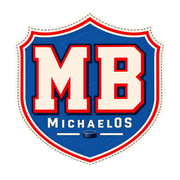
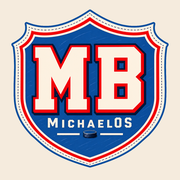
Apply blue-trim ivory shield to all launcher branding

diff --git a/index.html b/index.html
@@ -10,9 +10,9 @@
   <meta name="mobile-web-app-capable" content="yes">
   <meta name="format-detection" content="telephone=no">
   <title>MichaelOS</title>
-  <link rel="manifest" href="./manifest.webmanifest?v=6716ae216af6">
-  <link rel="apple-touch-icon" sizes="180x180" href="./apple-touch-icon.png?v=6716ae216af6">
-  <link rel="icon" type="image/png" sizes="32x32" href="./favicon-32.png?v=6716ae216af6">
+  <link rel="manifest" href="./manifest.webmanifest?v=57f1c0d3b1b2">
+  <link rel="apple-touch-icon" sizes="180x180" href="./apple-touch-icon.png?v=57f1c0d3b1b2">
+  <link rel="icon" type="image/png" sizes="32x32" href="./favicon-32.png?v=57f1c0d3b1b2">
   <style>
     :root {
       color-scheme: light dark;
@@ -110,7 +110,7 @@
 </head>
 <body>
   <main id="shell">
-    <div id="loading" aria-hidden="true"><img class="mark" src="./michaelos-app-icon.png?v=6716ae216af6" alt="" width="72" height="72" decoding="async" fetchpriority="high"></div>
+    <div id="loading" aria-hidden="true"><img class="mark" src="./michaelos-app-icon.png?v=57f1c0d3b1b2" alt="" width="72" height="72" decoding="async" fetchpriority="high"></div>
     <iframe
       id="app"
       title="MichaelOS"

diff --git a/README.md b/README.md
@@ -1,53 +1,39 @@
-# MichaelOS Launcher — Authentication Bootstrap Test
+# MichaelOS Launcher
 
-## Before testing
-Deploy MichaelOS 6.5.133.
-
-## iPhone test
-1. Push this launcher to the existing `MichaelOS-Launcher` GitHub Pages repo.
-2. Remove the old Home Screen MichaelOS launcher.
-3. Open `https://mbukantz.github.io/MichaelOS-Launcher/` in Safari.
-4. Add to Home Screen with **Open as Web App ON**.
-5. Launch the M/B icon.
-6. When the standalone launcher shows the 401, wait for the initialization card and tap **Initialize MichaelOS**.
-7. Apps Script loads top-level. If Google needs an account/auth step, complete it.
-8. The bootstrap page redirects automatically back to the launcher.
-9. Check whether embedded MichaelOS now loads instead of 401.
-
-If it still returns 401 after this sequence, the first-party cookie is not being accepted in the third-party iframe context and this iframe architecture is not viable on iOS standalone mode.
-
-Custom M/B Home Screen icons are retained.
+[Open MichaelOS](https://mbukantz.github.io/MichaelOS-Launcher/) · [Download the approved icon](michaelos-app-icon.png?v=57f1c0d3b1b2)
 
 ## Approved branding
 
-Icons and the 72px loading mark use the approved MichaelOS artwork. Their content version is `6716ae216af6`. Regenerate all sizes from the master in `mbukantz/MichaelOS` using `python scripts/generate-branding.py --launcher ../MichaelOS-Launcher`; add `--check` to verify. Do not edit generated icon sizes independently. Existing Home Screen installs may require removal and re-addition to refresh the installed icon.
+The approved shield has centennial-blue outer trim and a solid ivory (#F5EBDD) background. The artwork content version is `57f1c0d3b1b2`. The loading mark, browser favicon, Apple touch icon and manifest icons are generated from the full-resolution approved master in `mbukantz/MichaelOS`. Existing layout, application target, authentication controls and navigation behavior are unchanged.
 
-The 2026-11-16 approved shield has a transparent exterior, jersey-reference blue, subtle skate texture, stitched border and small puck. Existing loading dimensions and authentication behavior are unchanged.
+From the MichaelOS repository, generate or verify both repositories with:
 
-`favicon-6716ae216af6.png` is the same approved 32px artwork at a versioned filename ending in `.png`. Apps Script uses this direct URL so image-type identification does not depend on parsing a cache-busting query string. Existing launcher favicon/touch links are unchanged.
+```sh
+python3 scripts/generate-branding.py --launcher ../MichaelOS-Launcher
+python3 scripts/generate-branding.py --launcher ../MichaelOS-Launcher --check
+```
 
-## iPhone Shortcuts image options
+`favicon-57f1c0d3b1b2.png` provides the same approved 32px artwork at a URL ending in `.png` for Apps Script metadata. Retain older versioned favicon files for existing app releases. Historical comparison PNGs remain available at their original download URLs; they are not used as active app icons.
 
-Save one PNG below, then choose it in Shortcuts under **Add to Home Screen → icon → Choose Photo**. Each 512px RGB image composites the approved shield onto a solid background without redrawing it. App and launcher icons retain the approved transparency.
+## iPhone: choose the exact image with Shortcuts
 
-- [Warm ivory — #F5EBDD](michaelos-shortcuts-ivory-6716ae216af6.png)
-- [Soft silver — #E6E9EF](michaelos-shortcuts-silver-6716ae216af6.png)
-- [Slate gray — #758394](michaelos-shortcuts-slate-6716ae216af6.png)
+1. In Chrome, open [the approved icon](michaelos-app-icon.png?v=57f1c0d3b1b2), press and hold it, and save it to Photos.
+2. In Shortcuts, create a shortcut named **MichaelOS**.
+3. Add a **URL** action with this address, followed by **Open URLs**:
 
-### Richer shortcut background options
+```text
+googlechromes://script.google.com/macros/s/AKfycbyrW9FGCk2c4Hx51qH5Mbkmi9Nt2eibY1ubFZ66xzxAzgZDgq5PjNMTcQixt-4R03qz1Q/exec
+```
 
-- [Burgundy — #7B2D3E](michaelos-shortcuts-burgundy-6716ae216af6.png)
-- [Burnished copper — #A96542](michaelos-shortcuts-copper-6716ae216af6.png)
-- [Deep teal — #285F64](michaelos-shortcuts-teal-6716ae216af6.png)
+4. Open the shortcut’s name menu, choose **Add to Home Screen**, tap its icon, and choose the saved shield from Photos.
+5. Tap **Add**. The address opens MichaelOS directly in Chrome and remains valid through app updates. A custom shortcut photo does not automatically refresh when the website’s artwork changes.
 
-### Three horizontal bands
+Chrome also offers **Share → Add to Home Screen** from the launcher URL. Existing iOS installations may retain an older icon; Shortcuts provides explicit image selection.
 
-[Ivory / centennial blue / ivory shortcut icon](michaelos-shortcuts-ivory-blue-stripes-6716ae216af6.png): three approximately equal horizontal bands behind the approved shield. Ivory is #F5EBDD; blue #0B4F9E is the median of the approved shield’s blue field. The download is a 512px RGB PNG for Shortcuts.
+## Google sign-in and the embedded launcher
 
-### Outer centennial-blue outline
+The launcher embeds the existing Apps Script application. Its **Initialize MichaelOS** and **Open directly instead** controls open Google in the top-level browser when an embedded session is unavailable. Complete Google sign-in as needed. Embedded access depends on the browser’s cookie/session behavior; this branding update does not change it. The Shortcuts address above opens the app directly rather than depending on the launcher iframe.
 
-[Striped shortcut icon with outer centennial-blue outline](michaelos-shortcuts-blue-outline-stripes-6716ae216af6.png) · [Transparent outlined shield](michaelos-shield-blue-outline-6716ae216af6.png). A smooth five-pixel outside contour uses the approved shield’s median centennial blue (#0B4F9E). All opaque original shield pixels, the three background bands and 512px canvas are preserved. These are optional review/download images; app icon references are unchanged.
+## Publication order
 
-### Solid ivory with centennial-blue outer trim
-
-[Current solid-ivory shortcut icon](michaelos-shortcuts-blue-outline-ivory-6716ae216af6.png): the same blue-outlined shield on a uniform #F5EBDD background, with no background stripe. 512px RGB PNG for iPhone Shortcuts.
+Merge and verify the launcher’s GitHub Pages publication before releasing the matching MichaelOS branding PR. The app’s merged commit must pass its required validation and publish to Preview before the owner runs a fresh **Test & Deploy**. Merging the app PR alone does not deploy production.
